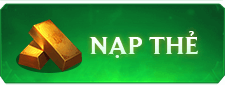
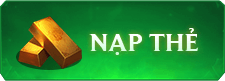
commit feature/#753-improve-new-web-vlhoainiem  - tăng spacing các item ở side-bar  - tăng kích thước ảnh nền ở list news  - cải thiện front size in hoạt động  - đồi màu nền background ở list cho đỡ chói hơn

diff --git a/resources/sass/main.scss b/resources/sass/main.scss
@@ -195,12 +195,12 @@ a {
           text-indent: -999px;
           &.btn-charge {
             background-image: url("../images/news08/sidebar-napthe.png");
+            margin-bottom: 13px;
             &:hover {
               background-image: url("../images/news08/sidebar-napthe-hover.png");
             }
           }
           &.btn-gift-code{
-            margin-top: -3px;
             background-image: url("../images/news08/sidebar-nhapcode.png");
             &:hover {
               background-image: url("../images/news08/sidebar-nhapcode-hover.png");
@@ -212,7 +212,8 @@ a {
       .register-login {
         display: flex;
         width: 100%;
-        margin-bottom: -7px;
+        margin-top: 18px;
+        margin-bottom: 11px;
         .register-btn {
           flex: 1;
           cursor: pointer;
@@ -240,7 +241,7 @@ a {
       }
 
       .info-user {
-        margin-top: 10px;
+        margin-top: 15px;
         background: #FFFFFF;
         padding-top: 15px;
         height: calc(250px - 15px);;
@@ -339,7 +340,7 @@ a {
       }
 
       .act-daily {
-        margin-top: 10px;
+        margin-top: 15px;
         width: 217px;
         height: 420px;
         background: url('../images/bg-act-daily-new.jpg') no-repeat;
@@ -371,18 +372,18 @@ a {
             display: table !important;
           }
           td {
-            font-size: 12px;
+            font-size: 14px;
             &.td-time {
               padding-top: 7px;
               vertical-align: top;
               color: #ff191e;
-              width: 70px;
+              width: 90px;
               text-align: right;
               padding-right: 5px;
             }
 
             &.td-content {
-              width: 141px;
+              width: 143px;
               padding: 7px 0px 7px 2px;
               a {
                 color: #2444be;
@@ -448,7 +449,7 @@ a {
         background: url('../images/bg-hotline.jpg') no-repeat;
         width: 100%;
         height: 100px;
-        margin-top: 10px;
+        margin-top: 15px;
         padding: 50px 0 0 50px;
         p {
           color: #ffae21;
@@ -582,9 +583,8 @@ a {
       }
 
       .news {
-        background-color: #FFFFFF;
-
-        margin-top: 10px;
+        background-color: #fffff1;
+        margin-top: 6px;
         padding: 10px;
         width: calc(100% - 20px);
 
@@ -601,7 +601,7 @@ a {
             height: 40px;
             background: url('../images/line.png') bottom left repeat-x;
             display: flex;
-            justify-content: center;
+            justify-content: space-evenly;
 
             .tab-link {
               background-position: -489px -566px;
@@ -751,15 +751,15 @@ a {
         }
 
         .column-second {
-          width: 175px;
-          height: 450px;
+          width: 185px;
+          height: 460px;
           float: right;
           background-image: url("../images/news08/char-in-news.png");
         }
       }
 
       .newbies {
-        background-color: #FFFFFF;
+        background-color: #fffff1;
         margin-top: 10px;
         padding: 10px;
         width: calc(100% - 20px);
@@ -771,12 +771,12 @@ a {
           }
         }
         .newbies-header {
-          padding-left: 7px;
+          padding-left: 10px;
           height: 40px;
           width: 100%;
           background: url('../images/line.png') bottom left repeat-x;
           display: flex;
-          justify-content: center;
+          justify-content: space-evenly;
 
           .newbies-title {
             display: block;
@@ -836,6 +836,7 @@ a {
             img {
               width: 100%;
               height: 100%;
+              border-radius: 5%;
             }
           }
 
@@ -999,7 +1000,7 @@ a {
   .main-details-content {
     margin-top: 10px;
     width: 700px;
-    background: #FFFFFF;
+    background: #fffff1;
     min-height: 1610px;
     padding: 50px 30px;
     font-family: 'Roboto', sans-serif !important;
@@ -1533,6 +1534,9 @@ a {
 }
 tr.border-custom {
   border-bottom: 1px dashed #b6b6b6;
+  &:last-child {
+    border: none;
+  }
 }
 @media screen and (max-width: 1024px){
   .header #intro {

diff --git a/resources/views/partials/sidebar/activity.blade.php b/resources/views/partials/sidebar/activity.blade.php
@@ -5,13 +5,13 @@
                 'Phong Lăng Độ' => ['huong-dan','phong-l-ng-do'],
                 'Vượt Ải' => ['huong-dan','tinh-n-ng-v-ot-ai-thach-thuc-thoi-gian'],
                 'Quả Huy Hoàng (Tiểu)' => ['huong-dan','hai-qua-huy-hoang'],
-                'Chiến Trường Tống Kim' => ['huong-dan','chien-tr-ong-tong-kim'],
+                'Tống Kim' => ['huong-dan','chien-tr-ong-tong-kim'],
                 'Liên Đấu' => ['huong-dan','lien-dau'],
                 'Quả Huy Hoàng' => ['huong-dan','hai-qua-huy-hoang'],
                 'Boss Đại Hoàng Kim' => ['su-kien','boss-dai-hoang-kim'],
                 'Boss Tiểu Hoàng Kim' => ['huong-dan','boss-tieu-hoang-kim'],
                 'Vận Tiêu' => ['huong-dan','trung-nguyen-tieu-cuc-tinh-n-ng-van-tieu'],
-                'Trung Nguyên Loạn Chiến' => ['huong-dan','trung-nguyen-loan-chien'],
+                'Loạn Chiến Cổ Mộ' => ['huong-dan','trung-nguyen-loan-chien'],
                 'Quốc Chiến Thiên Tử' => ['huong-dan','quoc-chien-thien-tu'],
                 'Thất Thành Đại Chiến'=> ['huong-dan','that-thanh-dai-chien'],
                 'Thương Nhân Tây Vực' => ['huong-dan', 'tinh-n-ng-th-ng-nhan-tay-vuc'],
@@ -20,10 +20,10 @@
                 'T2' => [
                     ['Phong Lăng Độ' => 'Đầu giờ chẵn'],
                     ['Vượt Ải' => 'Đầu mỗi giờ'],
-                    ['Chiến Trường Tống Kim' => '11:00'],
+                    ['Tống Kim' => '11:00'],
                     ['Boss Tiểu Hoàng Kim' => '12:30'],
                     ['Quả Huy Hoàng (Tiểu)' => '12:30'],
-                    ['Chiến Trường Tống Kim' => '15:00'],
+                    ['Tống Kim' => '15:00'],
                     ['Liên Đấu' => '18:00'],
                     ['Boss Đại Hoàng Kim' => '19:30'],
                     ['Boss Tiểu Hoàng Kim' => '20:00'],
@@ -34,88 +34,88 @@
                 'T3' => [
                     ['Phong Lăng Độ' => 'Đầu giờ chẵn'],
                     ['Vượt Ải' => 'Đầu mỗi giờ'],
-                    ['Chiến Trường Tống Kim' => '11:00'],
+                    ['Tống Kim' => '11:00'],
                     ['Boss Tiểu Hoàng Kim' => '12:30'],
                     ['Quả Huy Hoàng (Tiểu)' => '12:30'],
-                    ['Chiến Trường Tống Kim' => '15:00'],
+                    ['Tống Kim' => '15:00'],
                     ['Liên Đấu' => '18:00'],
                     ['Thương Nhân Tây Vực' => '19:00'],
                     ['Boss Đại Hoàng Kim' => '19:30'],
                     ['Vận Tiêu' => '20:00'],
                     ['Boss Tiểu Hoàng Kim' => '20:00'],
-                    ['Chiến Trường Tống Kim' => '21:00'],
+                    ['Tống Kim' => '21:00'],
                     ['Boss Đại Hoàng Kim' => '22:45'],
                 ],
                 'T4' => [
                     ['Phong Lăng Độ' => 'Đầu giờ chẵn'],
                     ['Vượt Ải' => 'Đầu mỗi giờ'],
-                    ['Chiến Trường Tống Kim' => '11:00'],
+                    ['Tống Kim' => '11:00'],
                     ['Boss Tiểu Hoàng Kim' => '12:30'],
                     ['Quả Huy Hoàng (Tiểu)' => '12:30'],
-                    ['Chiến Trường Tống Kim' => '15:00'],
+                    ['Tống Kim' => '15:00'],
                     ['Liên Đấu' => '18:00'],
                     ['Boss Đại Hoàng Kim' => '19:30'],
-                    ['Trung Nguyên Loạn Chiến' => '20:00'],
-                    ['Chiến Trường Tống Kim' => '21:00'],
+                    ['Loạn Chiến Cổ Mộ' => '20:00'],
+                    ['Tống Kim' => '21:00'],
                     ['Boss Đại Hoàng Kim' => '22:45'],
                 ],
                 'T5' => [
                     ['Phong Lăng Độ' => 'Đầu giờ chẵn'],
                     ['Vượt Ải' => 'Đầu mỗi giờ'],
-                    ['Chiến Trường Tống Kim' => '11:00'],
+                    ['Tống Kim' => '11:00'],
                     ['Boss Tiểu Hoàng Kim' => '12:30'],
                     ['Quả Huy Hoàng (Tiểu)' => '12:30'],
-                    ['Chiến Trường Tống Kim' => '15:00'],
+                    ['Tống Kim' => '15:00'],
                     ['Liên Đấu' => '18:00'],
                     ['Boss Đại Hoàng Kim' => '19:30'],
                     ['Vận Tiêu' => '20:00'],
                     ['Boss Tiểu Hoàng Kim' => '20:00'],
                     ['Quả Huy Hoàng' => '20:00'],
-                    ['Chiến Trường Tống Kim' => '21:00'],
+                    ['Tống Kim' => '21:00'],
                     ['Boss Đại Hoàng Kim' => '22:45'],
                 ],
                 'T6' => [
                     ['Phong Lăng Độ' => 'Đầu giờ chẵn'],
                     ['Vượt Ải' => 'Đầu mỗi giờ'],
-                    ['Chiến Trường Tống Kim' => '11:00'],
+                    ['Tống Kim' => '11:00'],
                     ['Boss Tiểu Hoàng Kim' => '12:30'],
                     ['Quả Huy Hoàng (Tiểu)' => '12:30'],
-                    ['Chiến Trường Tống Kim' => '15:00'],
+                    ['Tống Kim' => '15:00'],
                     ['Liên Đấu' => '18:00'],
                     ['Thương Nhân Tây Vực' => '19:00'],
                     ['Boss Đại Hoàng Kim' => '19:30'],
                     ['Liên Đấu' => '20:00'],
                     ['Thất Thành Đại Chiến' => '20:00'],
-                    ['Chiến Trường Tống Kim' => '21:00'],
+                    ['Tống Kim' => '21:00'],
                     ['Boss Đại Hoàng Kim' => '22:45'],
                 ],
                 'T7' => [
                     ['Phong Lăng Độ' => 'Đầu giờ chẵn'],
                     ['Vượt Ải' => 'Đầu mỗi giờ'],
-                    ['Chiến Trường Tống Kim' => '11:00'],
+                    ['Tống Kim' => '11:00'],
                     ['Boss Tiểu Hoàng Kim' => '12:30'],
                     ['Quả Huy Hoàng (Tiểu)' => '12:30'],
-                    ['Chiến Trường Tống Kim' => '15:00'],
+                    ['Tống Kim' => '15:00'],
                     ['Liên Đấu' => '18:00'],
                     ['Boss Đại Hoàng Kim' => '19:30'],
                     ['Boss Tiểu Hoàng Kim' => '20:00'],
                     ['Quả Huy Hoàng' => '20:00'],
                     ['Liên Đấu' => '20:00'],
-                    ['Chiến Trường Tống Kim' => '21:00'],
+                    ['Tống Kim' => '21:00'],
                     ['Boss Đại Hoàng Kim' => '22:45'],
                 ],
                 'CN' => [
                     ['Phong Lăng Độ' => 'Đầu giờ chẵn'],
                     ['Vượt Ải' => 'Đầu mỗi giờ'],
-                    ['Chiến Trường Tống Kim' => '11:00'],
+                    ['Tống Kim' => '11:00'],
                     ['Boss Tiểu Hoàng Kim' => '12:30'],
                     ['Quả Huy Hoàng (Tiểu)' => '12:30'],
-                    ['Chiến Trường Tống Kim' => '15:00'],
+                    ['Tống Kim' => '15:00'],
                     ['Liên Đấu' => '18:00'],
                     ['Boss Đại Hoàng Kim' => '19:30'],
                     ['Liên Đấu' => '20:00'],
-                    ['Trung Nguyên Loạn Chiến' => '20:00'],
-                    ['Chiến Trường Tống Kim' => '21:00'],
+                    ['Loạn Chiến Cổ Mộ' => '20:00'],
+                    ['Tống Kim' => '21:00'],
                     ['Boss Đại Hoàng Kim' => '22:45'],
                 ]
             ];
@@ -141,5 +141,4 @@
         @endforeach
     </table>
     @endforeach
-    <div class="act-daily-view-more"><a href="{{ route('front.category', ['huong-dan']) }}">Xem thêm >></a></div>
 </div>

diff --git a/config/t2g_common.php b/config/t2g_common.php
@@ -10,8 +10,8 @@ return [
         'seo'     => [
             'title'            => 'Võ Lâm Hoài Niệm',
             'meta_keyword'     => 'vo lam hoai niem, vltk hay, game pk hay, volam1, ctc, vo lam ctc, vo lam cong thanh chien, vo lam 1',
-            'meta_description' => 'Khai mở Server Phật Sơn - 19h00 ngày 15/05/2021. Với sự góp mặt của các đại bang đến từ khắp chốn giang hồ. Sự trở lại của 1 huyền thoại với 1 diện mạo hoàn toàn mới - Nơi 1 Huyền Thoại mới của giới private xuất hiện',
-            'meta_image'       => 'images/share_phat_son_05_2021.jpg',
+            'meta_description' => 'Võ Lâm Hoài Niệm - Phiên bản chuẩn công thành chiến 2005. Đã hoạt động hơn 3 năm cực kỳ ổn định, với hệ thống chống multi login và kéo xe liên máy độc quyền trong giới private. Đảm bảo 1 sân chơi sạch sẽ, công bằng, nói không với chim mồi, nói không với đồ tím và trang bị siêu nhân',
+            'meta_image'       => 'images/share_fb_09_2021.png',
         ],
         // Open Graph configs
         'og' => [

diff --git a/resources/views/partials/fb_fanpage.blade.php b/resources/views/partials/fb_fanpage.blade.php
@@ -1,3 +1,3 @@
 <div class="mt15">
-    <div class="fb-page" data-href="{{ config('site.fb.page_url') }}" data-tabs="timeline" data-width="227" data-height="250" data-small-header="false" data-adapt-container-width="false" data-hide-cover="false" data-show-facepile="true"><blockquote cite="{{ config('site.fb.page_url') }}" class="fb-xfbml-parse-ignore"><a href="{{ config('site.fb.page_url') }}">{{ config('app.name') }}</a></blockquote></div>
+    <div class="fb-page" data-href="{{ config('site.fb.page_url') }}" data-tabs="timeline" data-width="227" data-height="275" data-small-header="false" data-adapt-container-width="false" data-hide-cover="false" data-show-facepile="true"><blockquote cite="{{ config('site.fb.page_url') }}" class="fb-xfbml-parse-ignore"><a href="{{ config('site.fb.page_url') }}">{{ config('app.name') }}</a></blockquote></div>
 </div>

diff --git a/config/site.php b/config/site.php
@@ -15,5 +15,5 @@ return [
         'id'        => 'GTM-KSZGPB5',
         'config_id' => 'GTM-KSZGPB5',
     ],
-    'landing_page_enabled' => true
+    'landing_page_enabled' => false
 ];
